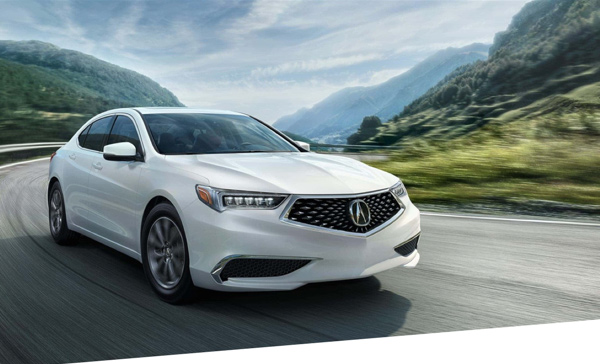
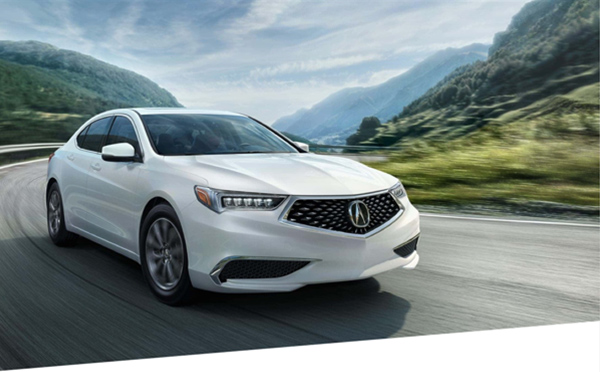
Q3 Newsletter adjustments

diff --git a/review.web/Content/Review/newsletter-2017-Q3_assets.html b/review.web/Content/Review/newsletter-2017-Q3_assets.html
@@ -103,7 +103,7 @@
       <tr><td valign="top">
         <table width="600" border="0" cellpadding="0" cellspacing="0" align="center">
           <tr><td>
-            <a target="_blank" href="http://www.acura.com/tlx/?SP_RID=%%RECIPIENT_ID%%&SP_MID=%%MAILING_ID%%&PROGRAMID=%%PROGID%%&CAMPAIGNCODE=%%CAMPAIGNCODE%%&OFFERCODE=%%OFFERCODE%%&CELLCODE=%%CELL%%&PID=%%PID%%&LINKNAME=%%LINK_NAME%%&FROM=%%MAILING_NAME%%" style="margin:0;padding:0; border:none;text-decoration:none;text-align:center;color:black;font-family:'HelveticaNeue-UltraLight', 'Helvetica Neue UltraLight', 'Helvetica Neue', Helvetica, Arial, 'Lucida Grande', sans-serif;font-size:36px;line-height:300px;display:block;"><img style="margin:0 auto;padding:0;border:none !important;outline:none !important;display:block;text-align:center;" height="364" width="600" alt="WHAT A RIDE - 2018 TLX" src="newsletter-2017-Q3_assets/newsletter-2017-q3-2018-tlx.jpg" /></a>
+            <a target="_blank" href="http://www.acura.com/tlx/?SP_RID=%%RECIPIENT_ID%%&SP_MID=%%MAILING_ID%%&PROGRAMID=%%PROGID%%&CAMPAIGNCODE=%%CAMPAIGNCODE%%&OFFERCODE=%%OFFERCODE%%&CELLCODE=%%CELL%%&PID=%%PID%%&LINKNAME=%%LINK_NAME%%&FROM=%%MAILING_NAME%%" style="margin:0;padding:0; border:none;text-decoration:none;text-align:center;color:black;font-family:'HelveticaNeue-UltraLight', 'Helvetica Neue UltraLight', 'Helvetica Neue', Helvetica, Arial, 'Lucida Grande', sans-serif;font-size:36px;line-height:300px;display:block;"><img style="margin:0 auto;padding:0;border:none !important;outline:none !important;display:block;text-align:center;" height="372" width="600" alt="WHAT A RIDE - 2018 TLX" src="newsletter-2017-Q3_assets/newsletter-2017-q3-2018-tlx.jpg" /></a>
           </td></tr>
 
           <tr><td>
@@ -804,7 +804,7 @@
           </td>
           <td class="content-container-cell">
             <div class="content acura-body-copy" style="line-height:30px;font-family:'Helvetica Neue', Helvetica, Arial, 'Lucida Grande', sans-serif;font-size:16px;text-align:left;color:#000000;" align="left">
-            <a target="_blank" href="http://www.acura.com/motorsports/?SP_RID=%%RECIPIENT_ID%%&SP_MID=%%MAILING_ID%%&PROGRAMID=%%PROGID%%&CAMPAIGNCODE=%%CAMPAIGNCODE%%&OFFERCODE=%%OFFERCODE%%&CELLCODE=%%CELL%%&PID=%%PID%%&LINKNAME=%%LINK_NAME%%&FROM=%%MAILING_NAME%%" style="margin:0;padding:0; border:none;text-decoration:none;text-align:center;font-size:36px;color:#ffffff;display:block;"><img style="margin:0 auto;padding:0;border:none !important;outline:none !important;display:block;text-align:center;color:white;background-color:black; font-family:'HelveticaNeue-UltraLight', 'Helvetica Neue UltraLight', 'Helvetica Neue', Helvetica, Arial, 'Lucida Grande', sans-serif;line-height:80px;" alt="NSX GT3 pulls lead over Ferrari" width="500" height="250" src="newsletter-2017-Q3_assets/newsletter-2017-q3-nsx-gt3-leads-over-ferrari.jpg" /></a>
+            <a target="_blank" href="http://www.acura.com/motorsports/?SP_RID=%%RECIPIENT_ID%%&SP_MID=%%MAILING_ID%%&PROGRAMID=%%PROGID%%&CAMPAIGNCODE=%%CAMPAIGNCODE%%&OFFERCODE=%%OFFERCODE%%&CELLCODE=%%CELL%%&PID=%%PID%%&LINKNAME=%%LINK_NAME%%&FROM=%%MAILING_NAME%%" style="margin:0;padding:0; border:none;text-decoration:none;text-align:center;font-size:36px;color:#ffffff;display:block;"><img style="margin:0 auto;padding:0;border:none !important;outline:none !important;display:block;text-align:center;color:white;background-color:black; font-family:'HelveticaNeue-UltraLight', 'Helvetica Neue UltraLight', 'Helvetica Neue', Helvetica, Arial, 'Lucida Grande', sans-serif;line-height:80px;" alt="NSX GT3 pulls lead over Ford" width="500" height="250" src="newsletter-2017-Q3_assets/newsletter-2017-q3-nsx-gt3.jpg" /></a>
 
             <img class="spacer" style="margin:0 auto;padding:0;border:0px none;outline:0px none;display:block;text-align:center;vertical-align:bottom;" src="newsletter-2017-Q3_assets/spacer.png" height="20" width="1">
 
